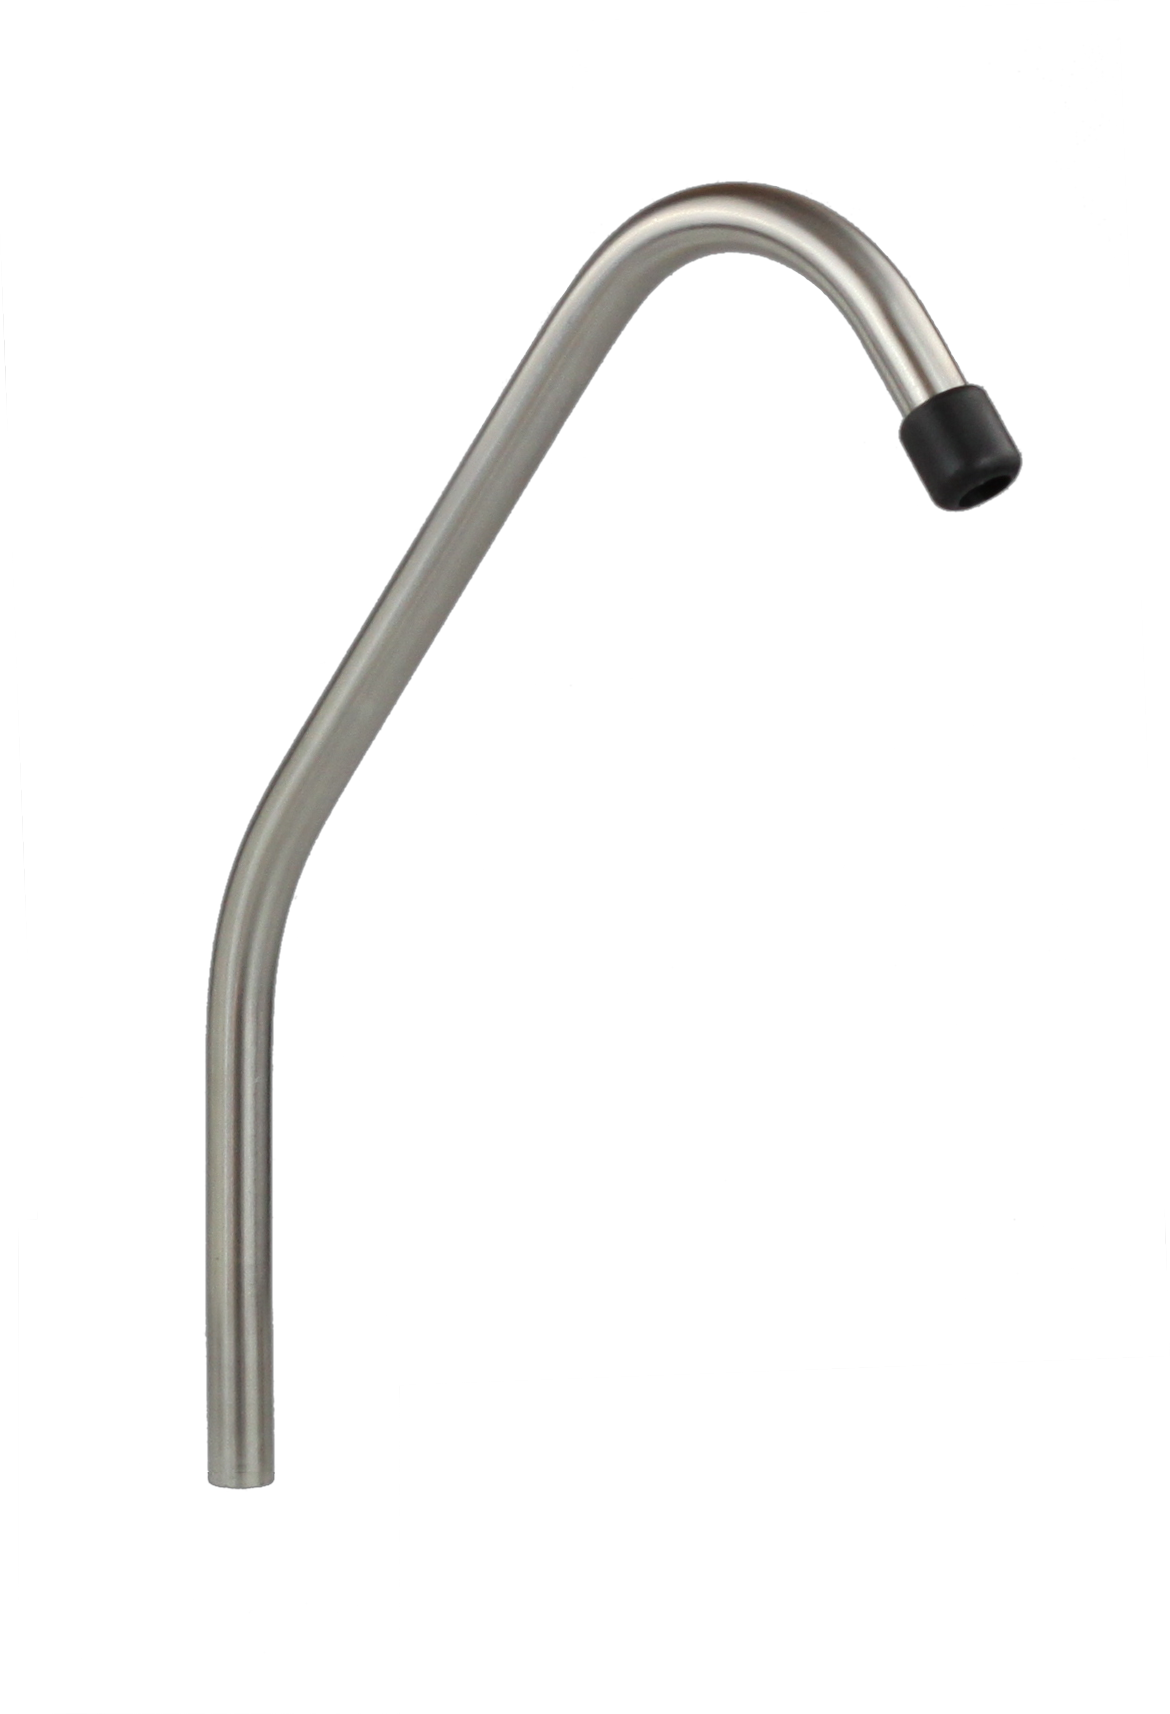
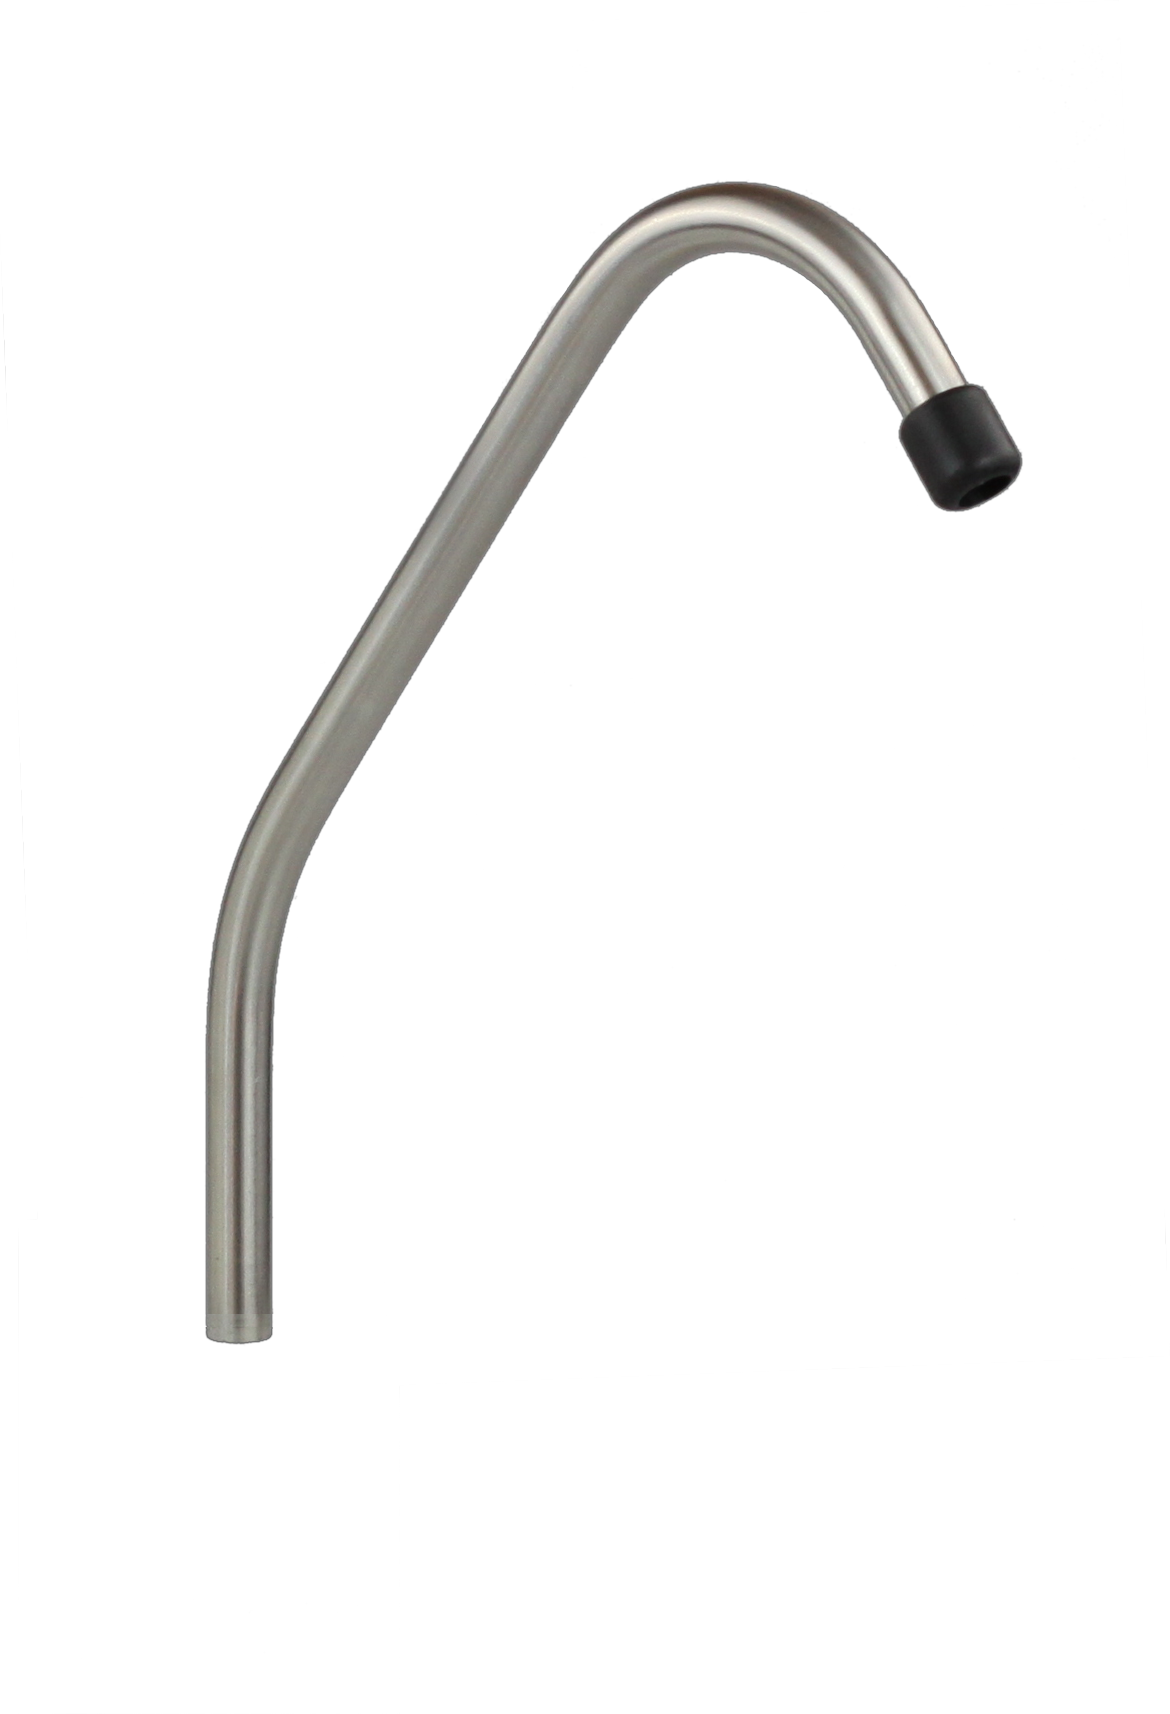
Update transition between white and colored versions for desktop

Changed region(s): [[0.1538, 0.773, 0.2462, 0.8658]]

diff --git a/style.css b/style.css
@@ -35,9 +35,9 @@ body {
 }
 
 .ball {
-  width: 7.5vw;
-  margin-left: 10.5vw;
-  margin-top: -0.8vw;
+  width: 7.7vw;
+  margin-left: 10.45vw;
+  margin-top: -1.1vw;
   z-index: 2;
 }
 
@@ -50,9 +50,10 @@ body {
 
 .faucet {
   width: 24vw;
-  margin-left: 9.3vw;
-  margin-top: -31vw;
+  margin-left: 9.7vw;
+  margin-top: -28.1vw;
   z-index: 4;
+  transform: rotate(1.8deg);
 }
 
 .circle, .circle .ripple {
@@ -183,12 +184,12 @@ body {
 
 .spout-hint {
   width: 33vw;
-  margin-top: -11vw;
+  margin-top: -8vw;
   margin-left: 22.2vw;
 }
 
 .spout-hint .circle {
-  left: -9.3vw;
+  left: -9.1vw;
   top: 1vw;
 }
 
@@ -358,9 +359,9 @@ h2 {
 .colored-version-6,
 .colored-version-7,
 .colored-version-8 {
-  width: 63vw;
-  margin-left: -30vw;
-  margin-top: -29.5vw;
+  width: 61.2vw;
+  margin-left: -29.15vw;
+  margin-top: -27.9vw;
   z-index: 14;
   /*opacity: 0;*/
 }

diff --git a/index.html b/index.html
@@ -13,7 +13,7 @@
     <script src="https://cdnjs.cloudflare.com/ajax/libs/gsap/3.3.0/gsap.min.js"></script>
     <script src="https://cdnjs.cloudflare.com/ajax/libs/gsap/3.3.0/CSSRulePlugin.min.js"></script>
 
-    <link rel="stylesheet" href="style.css?v=8">
+    <link rel="stylesheet" href="style.css?v=11">
 </head>
 <body>
     <div id="app">
@@ -100,6 +100,6 @@
         <img class="block colored-version-8" src="images/AVAIO-8-neon-pink.jpg">
     </div>
 
-    <script src="main.js?v=6"></script>
+    <script src="main.js?v=8"></script>
 </body>
 </html>

diff --git a/main.js b/main.js
@@ -30,7 +30,7 @@ tween
   .to(".filter", 2, { autoAlpha: 0 }, "-=1")
   .to(".ball", 2, { autoAlpha: 0 }, "-=2")
   .to(".faucet", 2, { autoAlpha: 0 }, "-=2")
-  .from(".colored-version-5", 4, { autoAlpha: 0 }, "+=4")
+  .from(".colored-version-5", 2, { autoAlpha: 0 }, "-=2")
   .from(".colored-version-6", 0, { autoAlpha: 0 }, "+=4")
   .from(".colored-version-7", 0, { autoAlpha: 0 }, "+=4")
   .from(".colored-version-8", 0, { autoAlpha: 0 }, "+=4")
